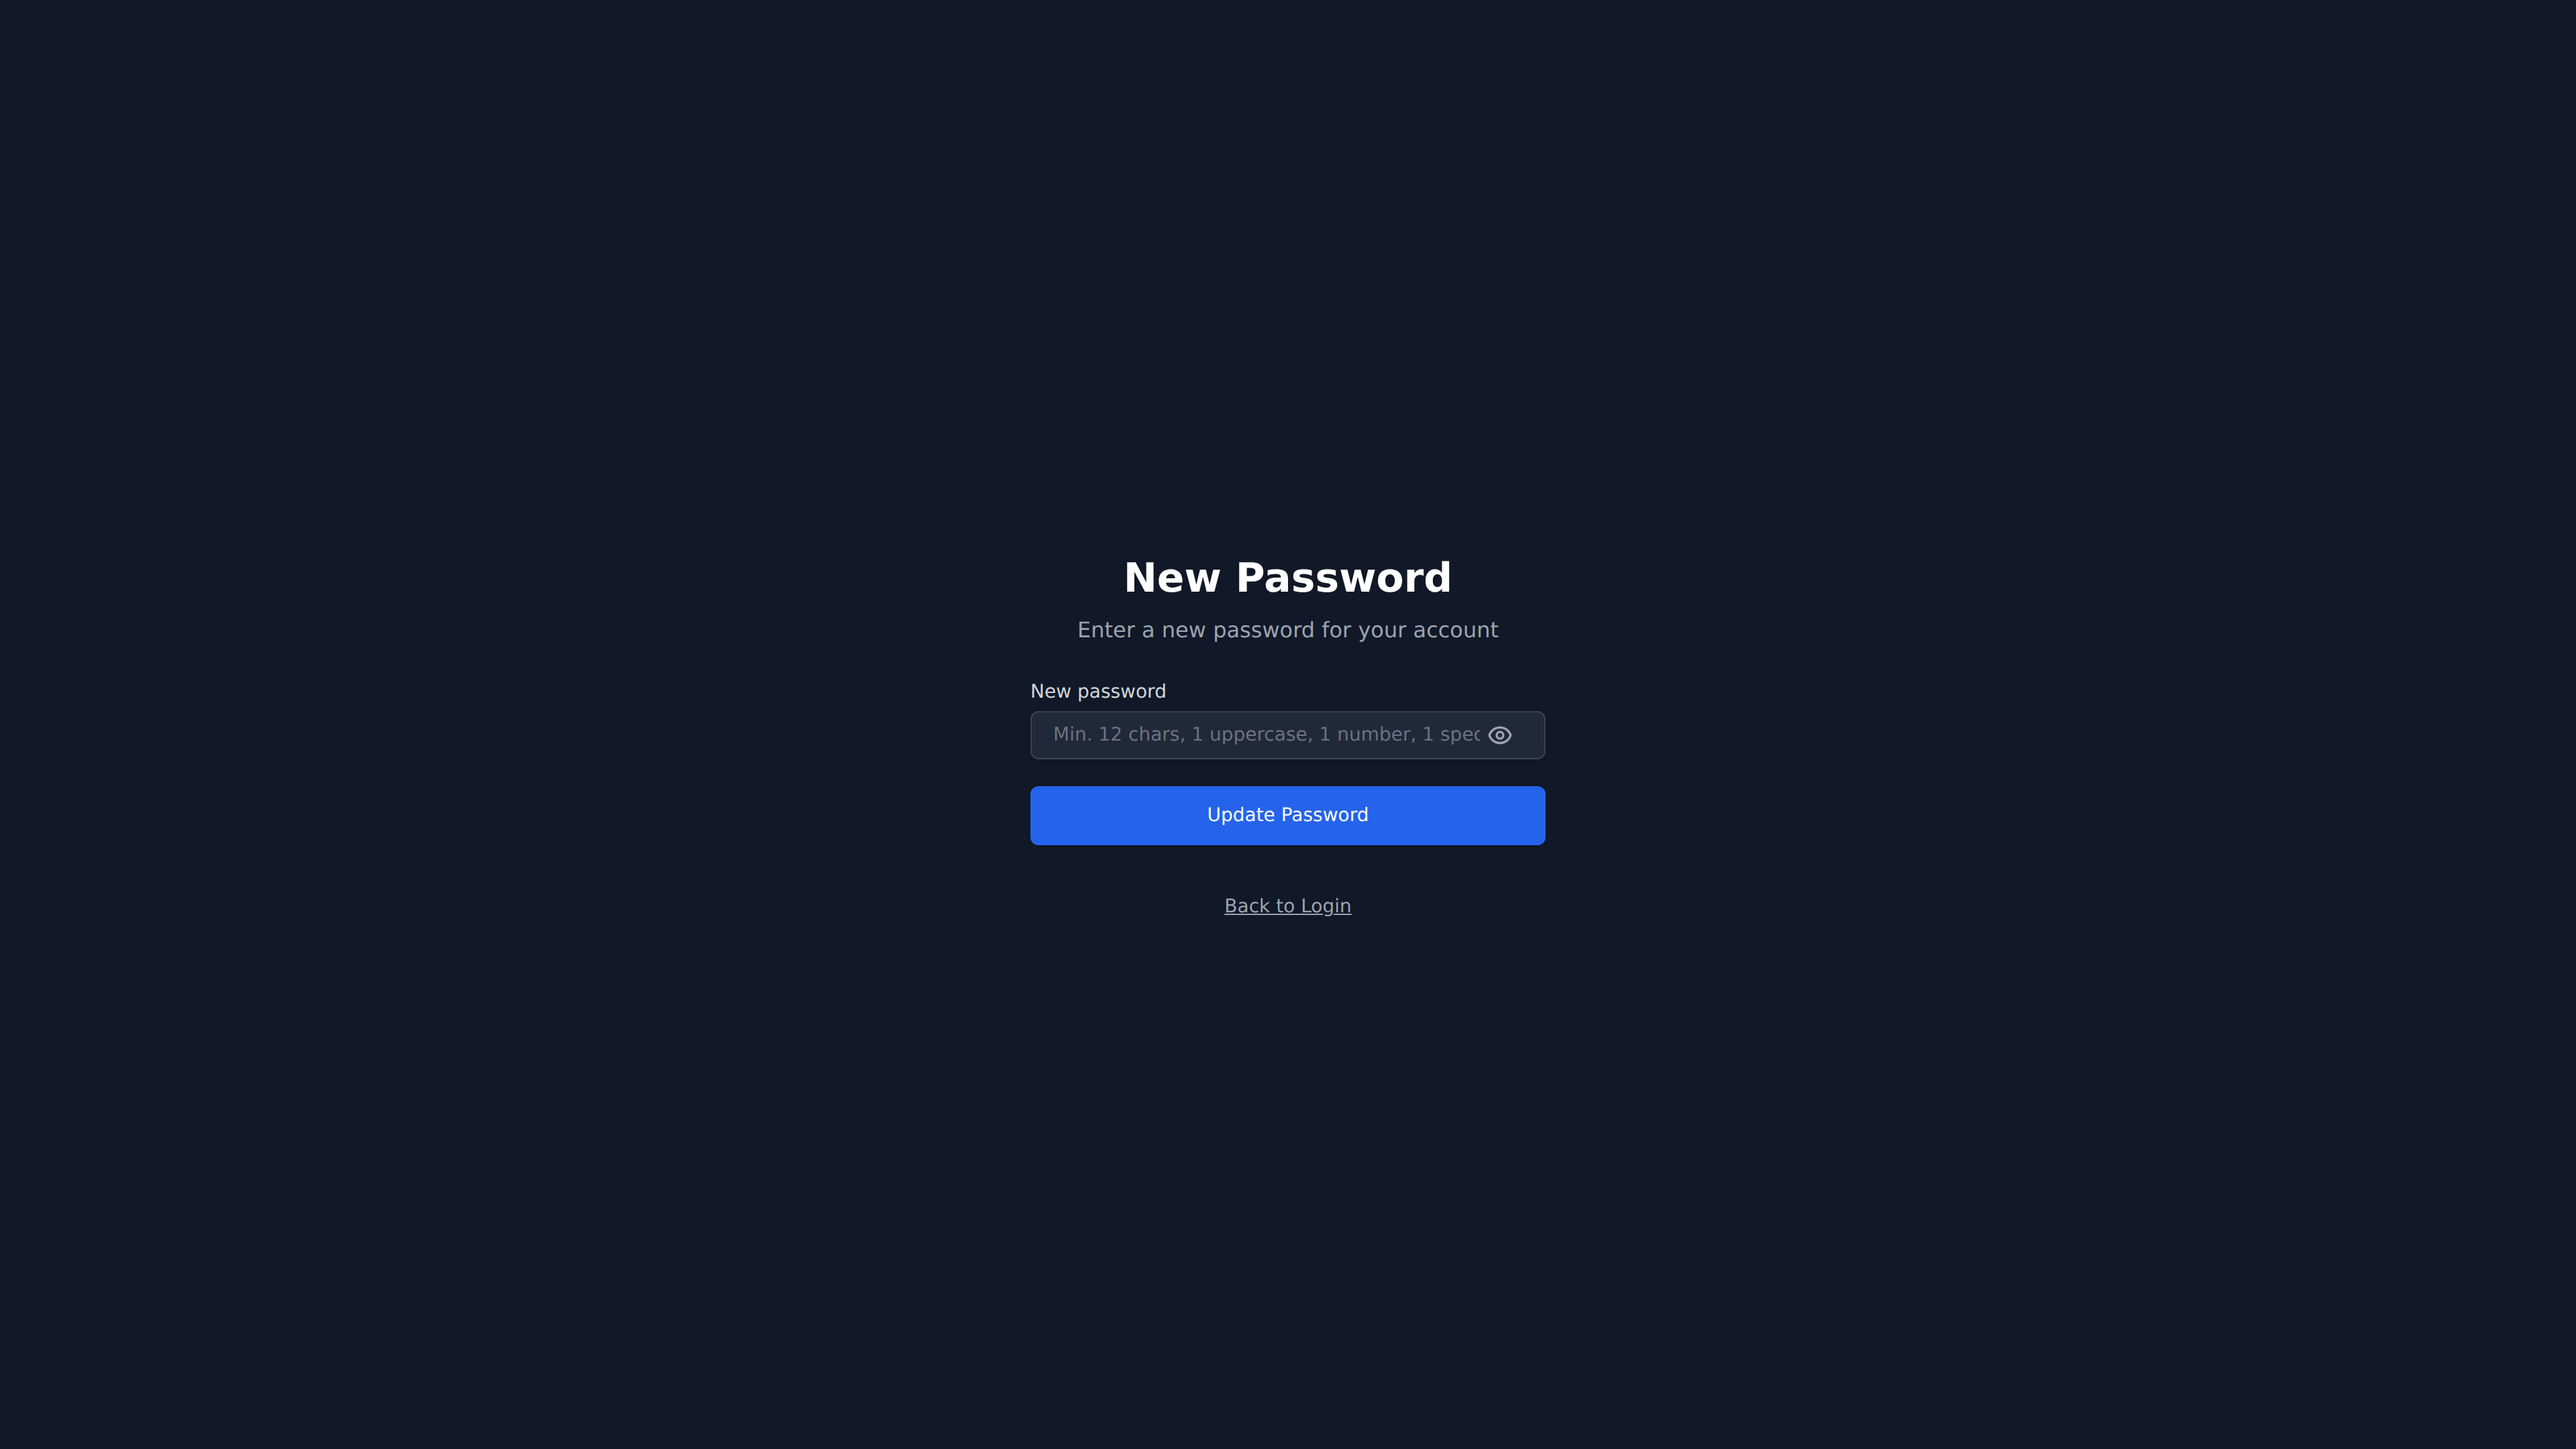
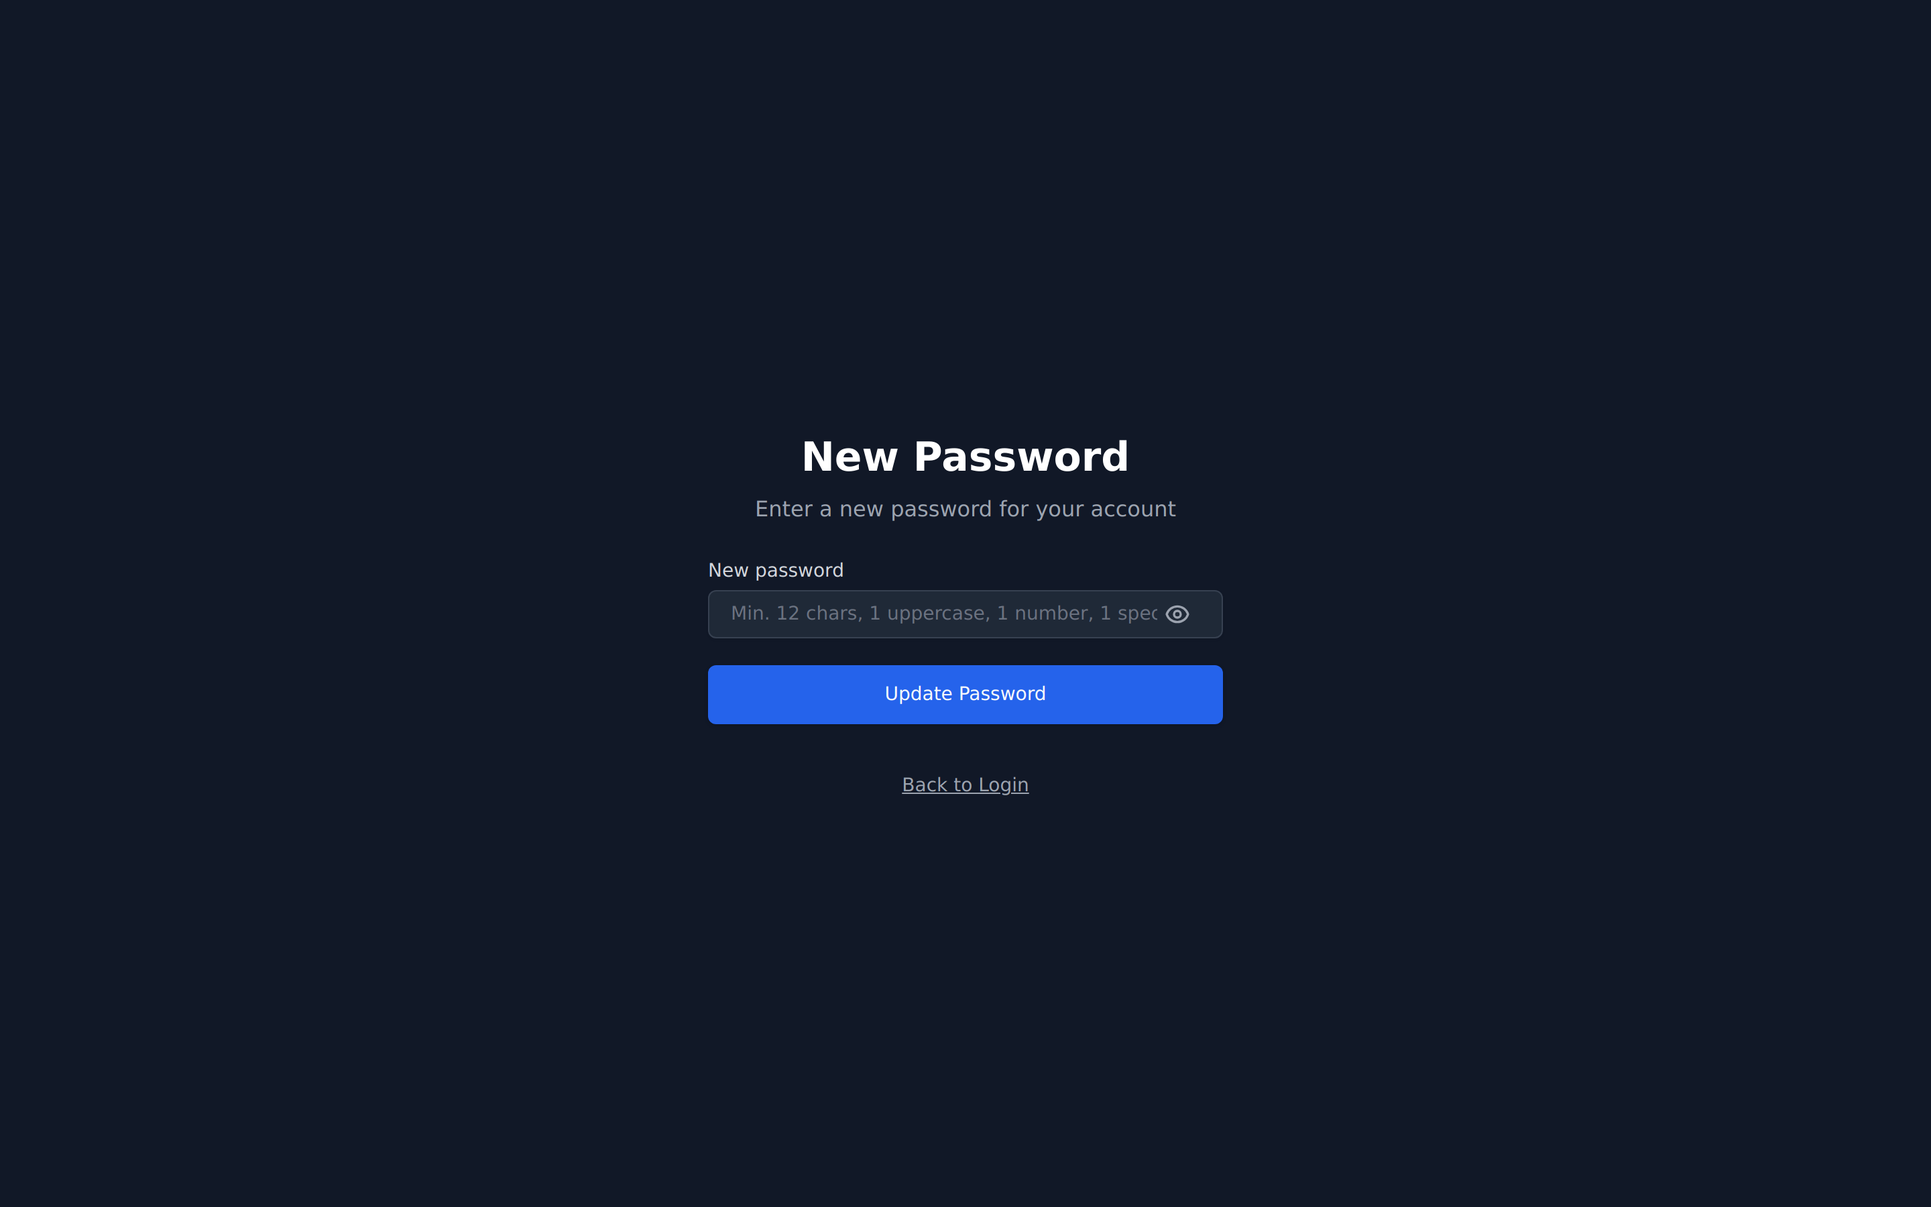
feat(projects): replace placeholder screenshots with real TimeManager captures
Captured 6 real screenshots from the running Vue 3 frontend using Playwright:
login (desktop/tablet/mobile), reset-password (desktop/mobile), confirm-account.
Added tablet + mobile reset-password views to the gallery.

https://claude.ai/code/session_01LBE48DdBLRNew4chibvb8J

Changed region(s): [[0.3438, 0.4667, 0.6562, 0.6533], [0.4062, 0.3733, 0.5938, 0.4356]]

diff --git a/src/data/projects.ts b/src/data/projects.ts
@@ -140,8 +140,10 @@ export const projects: Project[] = [
     github: "https://github.com/Hakiick/T-POO-700-STG_1",
     screenshots: [
       "/images/projects/timemanager/login-desktop.png",
+      "/images/projects/timemanager/login-tablet.png",
       "/images/projects/timemanager/login-mobile.png",
       "/images/projects/timemanager/reset-password-desktop.png",
+      "/images/projects/timemanager/reset-password-mobile.png",
       "/images/projects/timemanager/confirm-account-desktop.png",
     ],
   },
